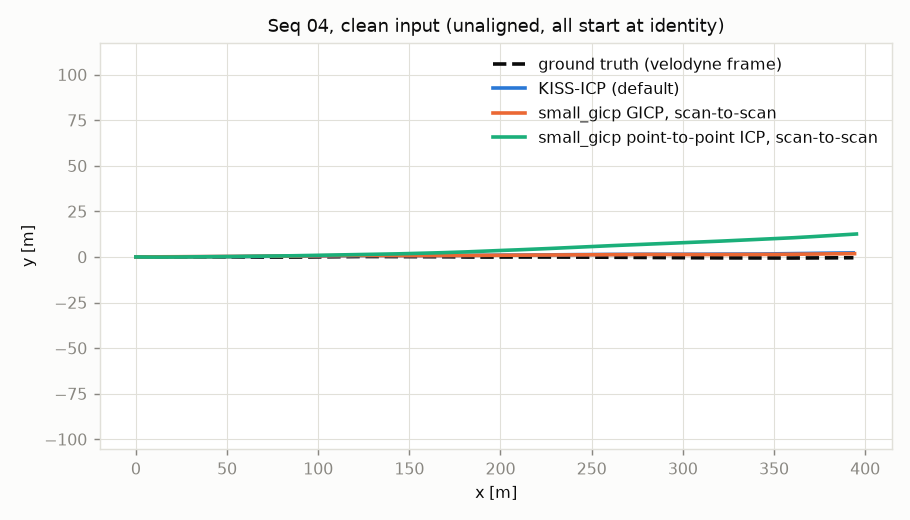
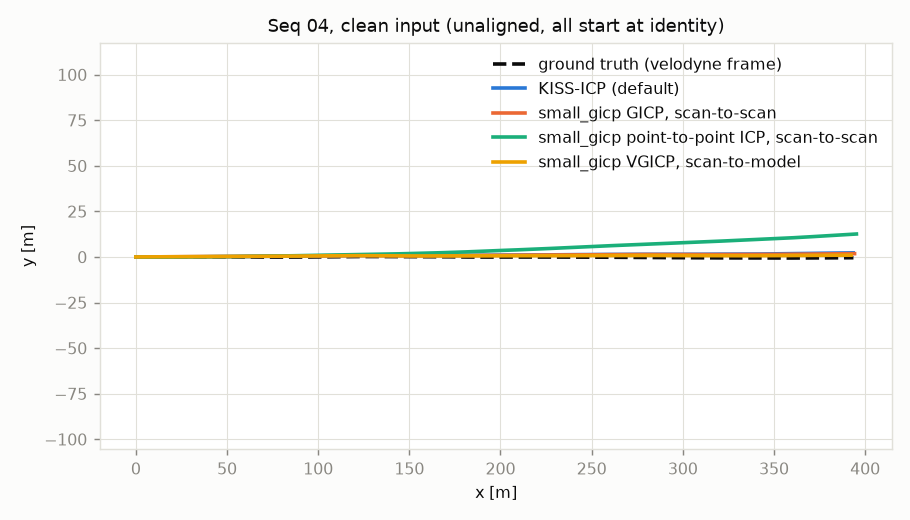
Round 2: VGICP scan-to-model, KISS-ICP fairness checks, GT-seeded scan-rate runs
- small_gicp VGICP against a local Gaussian voxel map separates map vs no map
  from the cost function; plotted as a fourth method.
- KISS-ICP matches kiss-icp's own KITTI pipeline to 2e-13; azimuth-time
  deskew is a sensitivity check (kiss_deskew rows), not a consistent win.
- kiss_range_check.py: told the truncated range (voxel = range / 100),
  KISS-ICP no longer diverges at 20 m on seq 04 (100.5 -> 6.99 %), so most of
  its max-range failure was its 100 m default; GICP variants still lead.
- GT-seeded first registration shows seq 04's low-rate failures are start-up
  failures; seq 07 at 1.25 Hz is a real limit.

Changed region(s): [[0.1538, 0.4615, 0.9231, 0.5231], [0.5231, 0.2769, 0.8923, 0.3385]]

diff --git a/bench.py b/bench.py
@@ -33,6 +33,7 @@ SWEEP = {  # the shared clean run is level 64 / 0 / 0 / inf / 1 of each
     "noise": [0.01, 0.03, 0.05, 0.10],  # Gaussian range sigma along the ray [m]
     "maxrange": [80, 40, 20, 10],  # [m]
     "rate": [2, 4, 8],  # keep every k-th scan: 10 Hz -> 5, 2.5, 1.25 Hz
+    "rate_gtseed": [2, 4, 8],  # same, but the first registration starts from the GT relative motion
 }
 SEEDS = {"dropout": [0, 1], "noise": [0, 1]}  # deterministic degradations run once
 DIVERGE_PCT = 10.0  # flag a run whose KITTI drift exceeds 10 % (defined at every scan rate, unlike 10 m RPE)
@@ -95,23 +96,29 @@ def degrade(pts, ring, kind, level, rng):
     return pts  # clean, rate (handled by frame selection)
 
 
-def run_kiss(scans):
+def run_kiss(scans, deskew=False, step=1, seed=None):
     """KISS-ICP, default config (max_range 100 m, voxel 1 m, adaptive threshold) except the thread
-    count; KITTI has no per-point timestamps, so like the official KITTI dataloader we pass none."""
+    count. KITTI .bin has no per-point time and kiss-icp 1.3.0's KITTI loader passes none, so its
+    deskew is a no-op there (poses match its own pipeline to 1e-12). deskew=True instead passes
+    t = 0.5 (1 - atan2(y, x) / pi), a clockwise sweep wrapping at the back, rescaled to the k-scan
+    interval when frames are skipped."""
     cfg = load_config(None)
     cfg.registration.max_num_threads = THREADS
     odom = KissICP(cfg)
-    for s in scans:
+    for i, s in enumerate(scans):
         t0 = time.perf_counter()
-        odom.register_frame(s, np.array([]))
+        t = 0.5 * (1 - np.arctan2(s[:, 1], s[:, 0]) / np.pi)
+        odom.register_frame(s, 0.5 + (t - 0.5) / step if deskew else np.array([]))
+        if i == 0 and seed is not None:
+            odom.last_delta = seed
         yield odom.last_pose.copy(), time.perf_counter() - t0
 
 
-def run_small_gicp(scans, reg_type):
+def run_small_gicp(scans, reg_type, seed=None, **_):
     """Scan-to-scan small_gicp: scan k registered to scan k-1 (KdTree target), 0.25 m voxel
     downsampling, 10-NN covariances, 1.0 m max correspondence, <= 20 iterations,
     constant-velocity initial guess (last relative motion)."""
-    T, delta, prev = np.eye(4), np.eye(4), None
+    T, delta, prev = np.eye(4), np.eye(4) if seed is None else seed, None
     for s in scans:
         t0 = time.perf_counter()
         cur, tree = small_gicp.preprocess_points(s, downsampling_resolution=0.25, num_neighbors=10, num_threads=THREADS)
@@ -124,7 +131,25 @@ def run_small_gicp(scans, reg_type):
         yield T.copy(), time.perf_counter() - t0
 
 
-METHODS = {"kiss": run_kiss, "gicp": lambda s: run_small_gicp(s, "GICP"), "icp": lambda s: run_small_gicp(s, "ICP")}
+def run_vgicp(scans, seed=None, **_):
+    """Scan-to-model small_gicp, after its README odometry example: VGICP against a GaussianVoxelMap
+    (1.0 m voxels, LRU horizon 100 / clear cycle 10) built from 0.25 m-downsampled scans,
+    constant-velocity initial guess, default 20 iterations."""
+    vmap = small_gicp.GaussianVoxelMap(1.0)
+    vmap.set_lru(horizon=100, clear_cycle=10)
+    T, delta = np.eye(4), np.eye(4) if seed is None else seed
+    for s in scans:
+        t0 = time.perf_counter()
+        cur, _ = small_gicp.preprocess_points(s, downsampling_resolution=0.25, num_neighbors=10, num_threads=THREADS)
+        if vmap.size():
+            T_new = small_gicp.align(vmap, cur, T @ delta, max_correspondence_distance=1.0, num_threads=THREADS).T_target_source
+            delta, T = np.linalg.inv(T) @ T_new, T_new
+        vmap.insert(cur, T)
+        yield T.copy(), time.perf_counter() - t0
+
+
+METHODS = {"kiss": run_kiss, "kiss_deskew": lambda s, **kw: run_kiss(s, deskew=True, **kw), "vgicp": run_vgicp,
+           "gicp": lambda s, **kw: run_small_gicp(s, "GICP", **kw), "icp": lambda s, **kw: run_small_gicp(s, "ICP", **kw)}
 
 
 def evaluate(gt, est):
@@ -171,16 +196,18 @@ def main():
         if new:
             w.writeheader()
         for kind, level, seed in runs:
-            idx = range(0, len(scans), level if kind == "rate" else 1)
+            step = level if kind.startswith("rate") else 1
+            idx = list(range(0, len(scans), step))
+            seed_delta = np.linalg.inv(gt[idx[0]]) @ gt[idx[1]] if kind == "rate_gtseed" else None
             for m in args.methods:
                 rng = np.random.default_rng(seed)  # same draws for every method
                 inputs = [degrade(scans[i], ring_ids[i], kind, level, rng) for i in idx]
                 row = {"seq": args.seq, "method": m, "degradation": kind, "level": level, "seed": seed,
                        "n_scans": len(inputs), "mean_pts": round(np.mean([len(p) for p in inputs]))}
                 try:
-                    poses, dts = zip(*METHODS[m](inputs))
+                    poses, dts = zip(*METHODS[m](inputs, step=step, seed=seed_delta))
                     est = np.array(poses)
-                    row.update(evaluate(gt[list(idx)], est), ms_per_scan=1e3 * np.mean(dts))
+                    row.update(evaluate(gt[idx], est), ms_per_scan=1e3 * np.mean(dts))
                     np.savetxt(OUT / "traj" / f"{args.seq}_{m}_{kind}_{level}_{seed}.txt", est[:, :3].reshape(len(est), 12))
                 except Exception as e:  # a crash is a result too
                     row.update(diverged=True, error=repr(e)[:200])

diff --git a/plot.py b/plot.py
@@ -15,14 +15,16 @@ from bench import gt_velo  # noqa: E402
 
 OUT = Path(__file__).parent / "results"
 INK, MUTED, GRID = "#0b0b0b", "#898781", "#e1e0d9"
-COLOR = {"kiss": "#2a78d6", "gicp": "#eb6834", "icp": "#1baf7a"}  # fixed categorical order
-NAME = {"kiss": "KISS-ICP (default)", "gicp": "small_gicp GICP, scan-to-scan", "icp": "small_gicp point-to-point ICP, scan-to-scan"}
+COLOR = {"kiss": "#2a78d6", "gicp": "#eb6834", "icp": "#1baf7a", "vgicp": "#eda100"}  # fixed categorical order
+NAME = {"kiss": "KISS-ICP (default)", "gicp": "small_gicp GICP, scan-to-scan", "icp": "small_gicp point-to-point ICP, scan-to-scan",
+        "vgicp": "small_gicp VGICP, scan-to-model"}
 PANELS = {  # degradation -> (title, clean tick, level -> tick)
     "beams": ("Beam decimation (rings)", "64", lambda v: f"{int(v)}"),
     "dropout": ("Random point dropout", "0%", lambda v: f"{v:.0%}"),
     "noise": ("Range noise σ along ray", "0", lambda v: f"{v * 100:g} cm"),
     "maxrange": ("Max-range truncation", "none", lambda v: f"{v:g} m"),
     "rate": ("Scan rate (frame skip)", "10 Hz", lambda v: f"{10 / v:g} Hz"),
+    "rate_gtseed": ("Scan rate, GT-seeded first step", "10 Hz", lambda v: f"{10 / v:g} Hz"),
 }
 ROWS = [("ate_rmse_m", "ATE RMSE [m]\n(SE(3)-aligned)"), ("rpe10_m", "RPE over 10 m [m]\n(translation RMSE)")]
 
@@ -32,7 +34,7 @@ def main(seq):
     methods = [m for m in COLOR if any(r["method"] == m for r in rows)]
     plt.rcParams.update({"font.size": 9, "text.color": INK, "axes.labelcolor": INK, "axes.edgecolor": GRID,
                          "xtick.color": MUTED, "ytick.color": MUTED, "axes.titlesize": 10})
-    fig, axes = plt.subplots(len(ROWS), len(PANELS), figsize=(16, 6.4), sharey="row", facecolor="#fcfcfb")
+    fig, axes = plt.subplots(len(ROWS), len(PANELS), figsize=(19, 6.4), sharey="row", facecolor="#fcfcfb")
     for (metric, ylabel), axrow in zip(ROWS, axes):
         for (kind, (title, clean_tick, fmt)), ax in zip(PANELS.items(), axrow):
             ax.set_facecolor("#fcfcfb")

diff --git a/kiss_range_check.py b/kiss_range_check.py
@@ -1,0 +1,18 @@
+# Does KISS-ICP still fail at short max range when its config is told the sensor range (voxel = range/100)?
+import sys, time, numpy as np
+sys.path.insert(0, str(__import__("pathlib").Path(__file__).parent))
+import bench
+from kiss_icp.config import load_config
+from kiss_icp.kiss_icp import KissICP
+for seq in sys.argv[1:]:
+    scans, ring_ids, gt = bench.load(seq)
+    for rmax in (20.0, 10.0):
+        rng = np.random.default_rng(0)
+        inputs = [bench.degrade(s, r, "maxrange", rmax, rng) for s, r in zip(scans, ring_ids)]
+        cfg = load_config(None); cfg.registration.max_num_threads = bench.THREADS
+        cfg.data.max_range = rmax; cfg.mapping.voxel_size = rmax / 100.0
+        odom, est = KissICP(cfg), []
+        for s in inputs:
+            odom.register_frame(s, np.array([])); est.append(odom.last_pose.copy())
+        m = bench.evaluate(gt, np.array(est))
+        print(seq, f"max_range {rmax:.0f} m, voxel {rmax/100:.2f} m: drift {m['kitti_drift_pct']:.2f} %, ATE {m['ate_rmse_m']:.2f} m", flush=True)

diff --git a/README.md b/README.md
@@ -8,7 +8,7 @@ road at a mean 14.6 m/s), applies five synthetic degradations at three or four
 levels each, runs three odometry front ends on every degraded copy, and scores
 the trajectories against KITTI ground truth. A first pass repeats the sweep on
 sequence 07 (1101 scans, 694.4 m of residential streets at a mean 6.3 m/s,
-ending 9.4 m from its start). 162 runs, about 18 minutes on a laptop CPU.
+ending 9.4 m from its start). Round 1 was 162 runs (about 18 minutes on a laptop CPU); round 2 added VGICP, a deskew check and GT-seeded rate runs.
 
 > **Scope.** Two sequences, synthetic degradations of real scans, fixed
 > default parameters for every method. The numbers describe these
@@ -22,6 +22,11 @@ ending 9.4 m from its start). 162 runs, about 18 minutes on a laptop CPU.
 All drift values are the KITTI metric, which on this 394 m sequence uses only
 the 100, 200 and 300 m segments. "Breaks" means flagged as diverged (drift
 above 10 %). The full table is [`results/04.csv`](results/04.csv).
+
+> **Round 2 correction (Oct 12):** most of KISS-ICP's max-range failure below
+> is a configuration artifact. Its default assumes a 100 m sensor (1 m voxels);
+> told the truncated range, it no longer diverges at 20 m on seq 04. See
+> [Round 2 checks](#round-2-checks-oct-12).
 
 1. **Clean input gives sub-1 % drift for KISS-ICP and GICP.** KISS-ICP: 0.46 % drift, 0.20 m
    ATE, 0.07 m RPE over 10 m, 13.5 ms per scan. Scan-to-scan GICP: 0.52 %,
@@ -101,6 +106,35 @@ Drift here uses the 100–600 m segments of the 694 m loop. The full table is
 
 ![Clean-input trajectories, seq 07](results/07_clean_traj.png)
 
+## Round 2 checks (Oct 12)
+
+1. **The KISS-ICP baseline is fair.** Our KISS-ICP poses match kiss-icp's own
+   KITTI pipeline to 2e-13 on seq 04. Deskewing with azimuth timestamps is not a
+   consistent win (see [Method](#method)), so the official pipeline stays the default.
+2. **Keeping a map helps GICP on clean input.** The scan-to-model VGICP is the most
+   accurate method on seq 07: 0.48 % drift, against 0.70 % for KISS-ICP and
+   1.19 % for scan-to-scan GICP. On seq 04 it gets 0.50 %, against 0.46 % for KISS-ICP.
+3. **Max range, re-checked.**
+   - KISS-ICP's default config sets the voxel size to max range / 100, i.e. 1 m
+     for a 100 m sensor. [`kiss_range_check.py`](kiss_range_check.py) tells it the
+     truncated range instead (voxel = range / 100).
+   - With that change, seq 04 at 20 m drops from 100.5 % to **6.99 %**, and seq 07
+     at 10 m from 56.3 % to **9.27 %**.
+   - The GICP variants still lead at short range:
+     - seq 04 at 20 m: GICP 2.23 %, VGICP 2.25 %, range-matched KISS-ICP 6.99 %
+     - seq 07 at 10 m: GICP 5.80 %, VGICP 7.70 %, KISS-ICP 9.27 %
+   - At 10 m on seq 04 every method fails.
+4. **A map does not save sparse rings.**
+   - On seq 04, VGICP breaks at 16 rings (26.7 %), while scan-to-scan GICP held there.
+   - On seq 07, VGICP breaks at 8 rings (17.9 %), while scan-to-scan GICP held at 4.17 %.
+5. **Some low-rate failures happen at start-up.** Seeding VGICP's first
+   registration from ground truth changes:
+   - seq 04 at 2.5 Hz: 89.3 % → 0.53 %
+   - seq 04 at 1.25 Hz: 107 % → 0.60 %
+   - So on seq 04 the constant-velocity guess from rest is what fails, not tracking.
+   - On seq 07 at 1.25 Hz, seeding does not help (60.4 % → 61.4 %). That one is a
+     real tracking limit.
+
 ## Method
 
 **Data.** KITTI raw drive `2011_09_30_drive_0016` (sync), frames 0–270, which
@@ -138,6 +172,7 @@ points of frames 0, 135 and 270, at near and far range alike.
 | Range noise | σ = 1, 3, 5, 10 cm | 2 | Gaussian along the ray, direction kept |
 | Max-range truncation | 80, 40, 20, 10 m | 1 | drop points beyond *R* (fog/occlusion proxy) |
 | Scan rate | 10 → 5, 2.5, 1.25 Hz | 1 | keep every 2nd/4th/8th scan; GT subsampled to match |
+| Scan rate, GT-seeded | 10 → 5, 2.5, 1.25 Hz | 1 | as above, but the first registration starts from the GT relative motion |
 
 Seeded draws are identical across methods (same seed, same scan order).
 
@@ -155,6 +190,26 @@ Seeded draws are identical across methods (same seed, same scan order).
   8 threads.
 - **small_gicp point-to-point ICP, scan-to-scan**: the same pipeline with
   `registration_type="ICP"`, as a plain baseline.
+- **small_gicp 1.0.1 VGICP, scan-to-model** (added in round 2, after
+  small_gicp's README odometry example): each scan, downsampled at 0.25 m with
+  10-NN covariances, is registered by VGICP to a `GaussianVoxelMap` (1.0 m
+  voxels, LRU horizon 100, clear cycle 10) of earlier scans inserted at their
+  estimated poses. Constant-velocity initial guess, 1.0 m max correspondence,
+  default 20 iterations, 8 threads. It is the map-keeping counterpart of the
+  scan-to-scan GICP, so it separates map vs. no map from the cost function.
+
+**Is the KISS-ICP baseline fair?** kiss-icp 1.3.0's own KITTI dataloader
+passes no per-point timestamps, so its deskew step does nothing on KITTI: with
+empty timestamps, deskew on and off give identical poses. Our KISS-ICP poses
+on seq 04 match kiss-icp's `OdometryPipeline` with its KITTI dataloader to
+2e-13 (both 0.4579 % drift, 0.2038 m ATE). Deskewing with azimuth timestamps,
+t = 0.5 (1 − atan2(y, x)/π), does not help consistently. On seq 04 drift
+improves from 0.46 to 0.41 %, but ATE worsens from 0.20 to 0.23 m and 10 m
+RPE from 0.073 to 0.112 m. On seq 07 drift worsens from 0.70 to 0.75 % while
+ATE improves from 0.63 to 0.44 m. Wrapping the sweep at the front, or
+sweeping counter-clockwise, gave higher drift than this on both sequences. So the default stays the official
+pipeline, and the `kiss_deskew` rows in the CSVs are the sensitivity check.
+The kiss-icp README lists no KITTI numbers to compare against.
 
 **Metrics** (all against GT in the Velodyne frame):
 - **ATE RMSE**: evo APE on the translation, after an SE(3) Umeyama alignment
